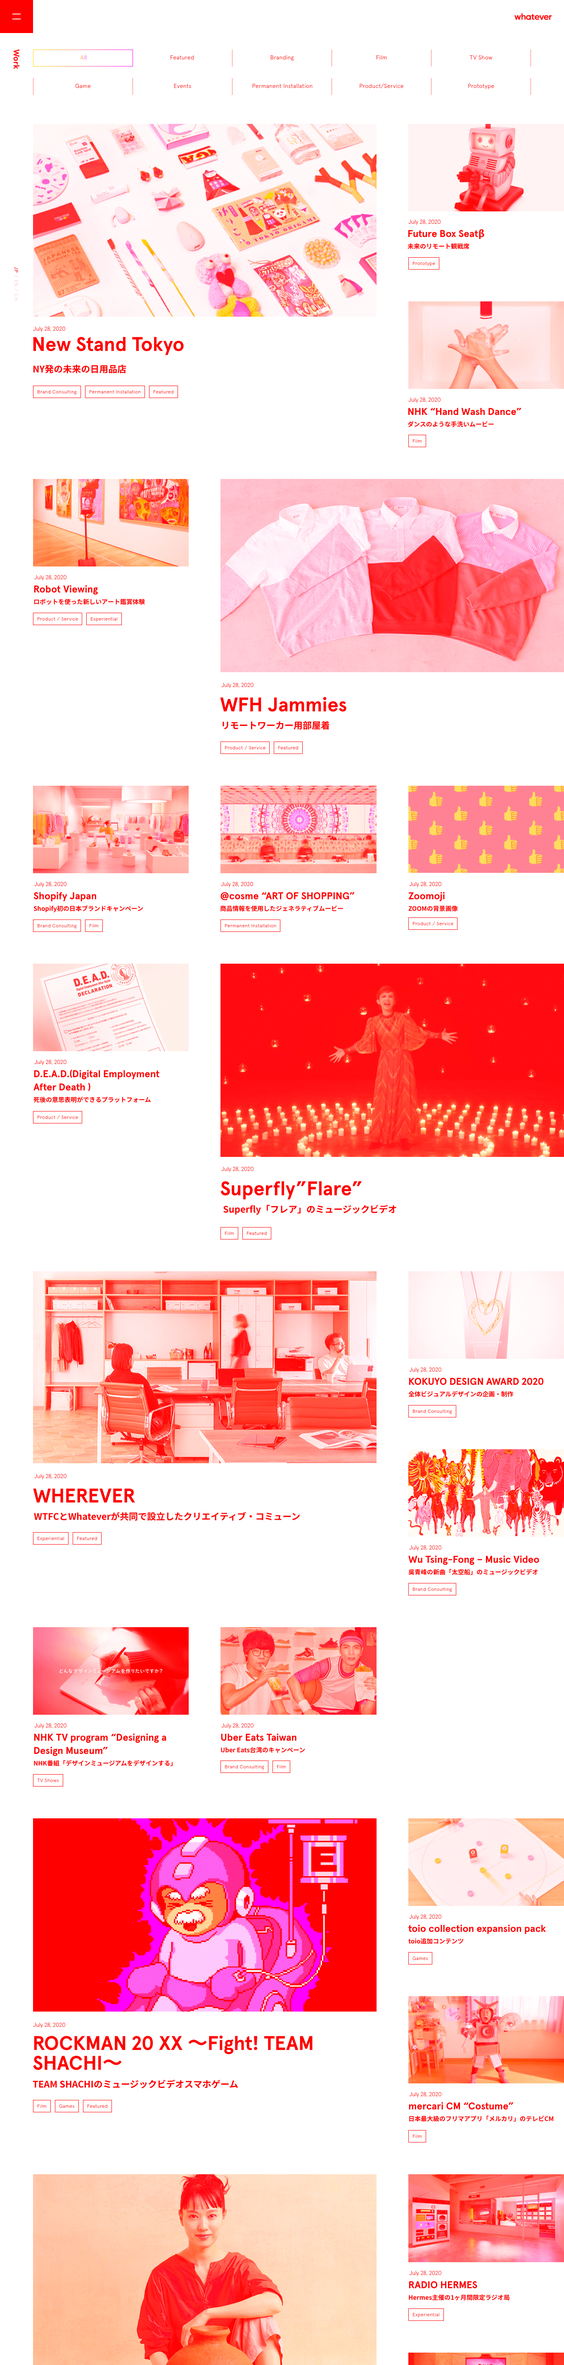
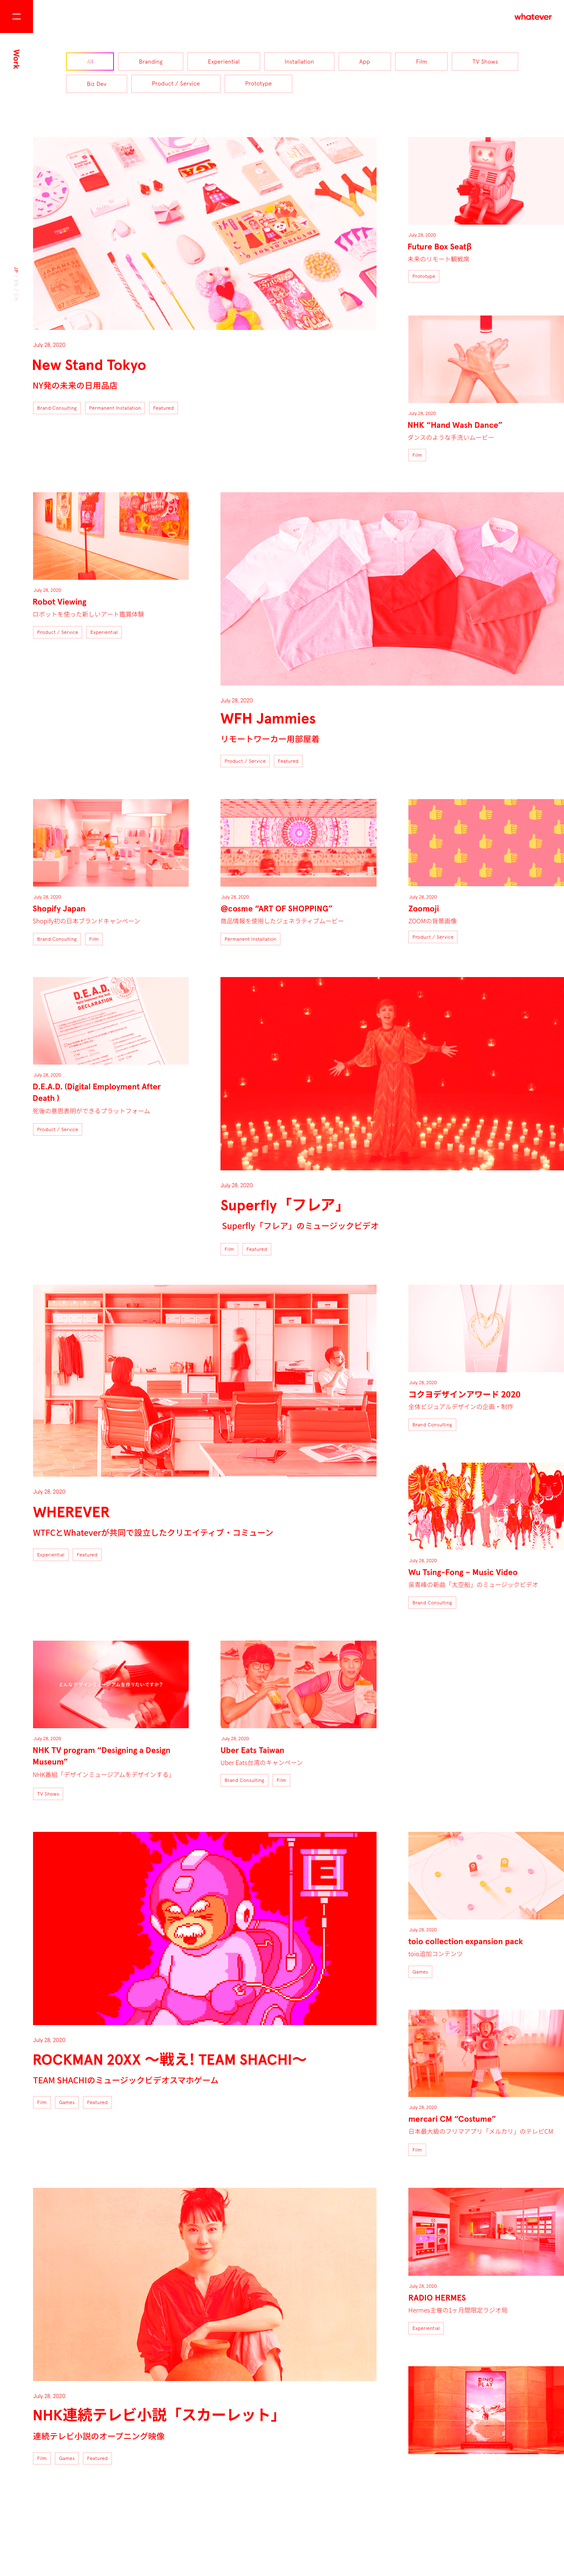
TagSelector

diff --git a/components/TagSelector.tsx b/components/TagSelector.tsx
@@ -5,26 +5,22 @@ import { Grad } from './Grad'
 
 const TagItem = ({ name, slug, focused }: { name: string, slug: string, focused: boolean }) => (
   <li className={classNames('tag-item', { focused })}>
-    <Link href={`/work/category/${slug}`} passHref prefetch={false}>
+    <Link href={`/work/category/${slug}`} passHref>
       <a><Grad><span className="inner">{name}</span></Grad></a>
     </Link>
     <style jsx>{`
-      vwpx(px)
-        'calc((100vw - 80px) * %s)' % (px / (1366 - 80))
+      @import 'lib/vw.styl'
       .tag-item
         position relative
         z-index 0
         display inline-block
-        padding 0
+        padding 0 50px
         margin 0
-        margin-right -1px
-        margin-bottom vwpx(28)
+        margin-right 10px
+        margin-bottom 10px
         list-style-type none
-        border 1px solid transparent
-        border-left 1px solid black
-        border-right 1px solid black
-        width vwpx(240)
-        height vwpx(39)
+        border 1px solid #B4B4B4
+        height 42px
         text-align center
         vertical-align middle
       a
@@ -33,16 +29,21 @@ const TagItem = ({ name, slug, focused }: { name: string, slug: string, focused:
         align-items center
         width 100%
         height 100%
-        padding-top 1px
         border none
       .focused
-        border 1px solid red
+        border-color red
+        border-width 2px
+        padding 0 49px
+        height 40px
         z-index 100
+        a
+          color red
       .inner
         display inline-block
-        font-size vwpx(14)
         letter-spacing 0.02em
         overflow hidden
+        margin-top 4px
+        font-size 1.4rem
     `}</style>
   </li>
 )
@@ -52,13 +53,10 @@ export const TagSelector = ({ tags, active }: { tags?: Tag[], active: string }) 
     <TagItem name="All" slug='all' focused={active == "all"} />
     {tags?.map(tag => <TagItem key={tag.slug} name={tag.name} slug={tag.slug} focused={tag.slug == active} />)}
     <style jsx>{`
-      vwpx(px)
-        'calc((100vw - 80px) * %s)' % (px / (1366 - 80))
+      @import 'lib/vw.styl'
       .tag-selector
         padding 0
-        margin 0
-        margin-top 40px
-        margin-bottom vwpx(42)
+        margin 47px 80px vwpx(97)
     `}</style>
   </ol>
 )
